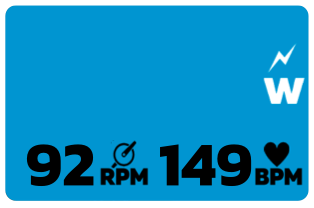
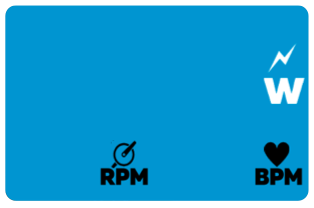
Added dynamic bpm/rpm following modified pattern

Changed region(s): [[0.4873, 0.6923, 0.8025, 0.8942], [0.086, 0.6923, 0.3153, 0.8942]]

diff --git a/src/components/app.js b/src/components/app.js
@@ -20,11 +20,15 @@ function App() {
     const [stats, setStats] = useState({ })
     const [powerup, setPowerup] = useState(-1)
     const [showAdvanced, setShowAdvanced] = useState(false)
+    const [bpm, setBpm] = useState(0)
+    const [rpm, setRpm] = useState(0)
     
     const [composition, setComposition] = useState(null)
     
     useEffect(() => {
         setWatts(randomInt(100, 300))
+        setBpm(randomInt(50,180))
+        setRpm(randomInt(75,95))
         setGradient(randomInt(-2, 9))
         const randomStats = {
             speed: randomInt(20, 45),
@@ -82,6 +86,14 @@ function App() {
         ctx.fillStyle = Colors.white
         ctx.font = canvasFont(105)
         ctx.fillText(watts.toString(), 278, 125)
+
+        // RPM
+        ctx.fillStyle = Colors.black
+        ctx.font = canvasFont(63)
+        ctx.fillText(rpm.toString(), 115, 205)
+
+        // BPM
+        ctx.fillText(bpm.toString(), 273, 205)
         
         // Power up
         if (powerup >= 0) {
@@ -154,7 +166,15 @@ function App() {
 
     function randomInt(min, max) {
         return min + Math.floor(Math.random() * Math.floor(max - min))
-    }    
+    }
+
+    function randomBpm() {
+        return 100 + Math.floor(Math.random() * Math.floor(50))
+    }
+
+    function randomRpm() {
+        return 100 + Math.floor(Math.random() * Math.floor(50))
+    }
 
     function onNameChanged(value) { setName(value) }    
     function onFriendChanged(value) { setFriend(value) }    
@@ -162,6 +182,8 @@ function App() {
     function onPowerupChanged(value) { setPowerup(parseInt(value)) }
     
     function onWattsChanged(value) { setWatts(parseInt(value)) }
+    function onRpmChanged(value) { setRpm(parseInt(value)) }
+    function onBpmChanged(value) { setBpm(parseInt(value)) }
     function onGradientChanged(value) { setGradient(parseInt(value)) }
     
     function onDistanceChanged(value) { setStats( { ...stats, distance: parseFloat(value) }) }
@@ -243,6 +265,18 @@ function App() {
                                         <input type="number" min="0" max="9999" step="1" value={watts}
                                                onChange={(e) => onWattsChanged(e.target.value)}
                                                className="bg-gray-700 text-white p-1 rounded w-24 md:w-16"/>
+                                    </div>
+                                    <div className="pr-6 mb-2">
+                                        <Label>RPM:</Label>
+                                        <input type="number" min="0" max="200" step="1" value={rpm}
+                                            onChange={(e) => onRpmChanged(e.target.value)}
+                                            className="bg-gray-700 text-white p-1 rounded"/>
+                                    </div>
+                                    <div className="pr-6 mb-2">
+                                        <Label>BPM:</Label>
+                                        <input type="number" min="0" max="300" step="1" value={bpm}
+                                            onChange={(e) => onBpmChanged(e.target.value)}
+                                            className="bg-gray-700 text-white p-1 rounded"/>
                                     </div>
                                     <div className="pr-6 mb-2">
                                         <Label>Gradient:</Label>
